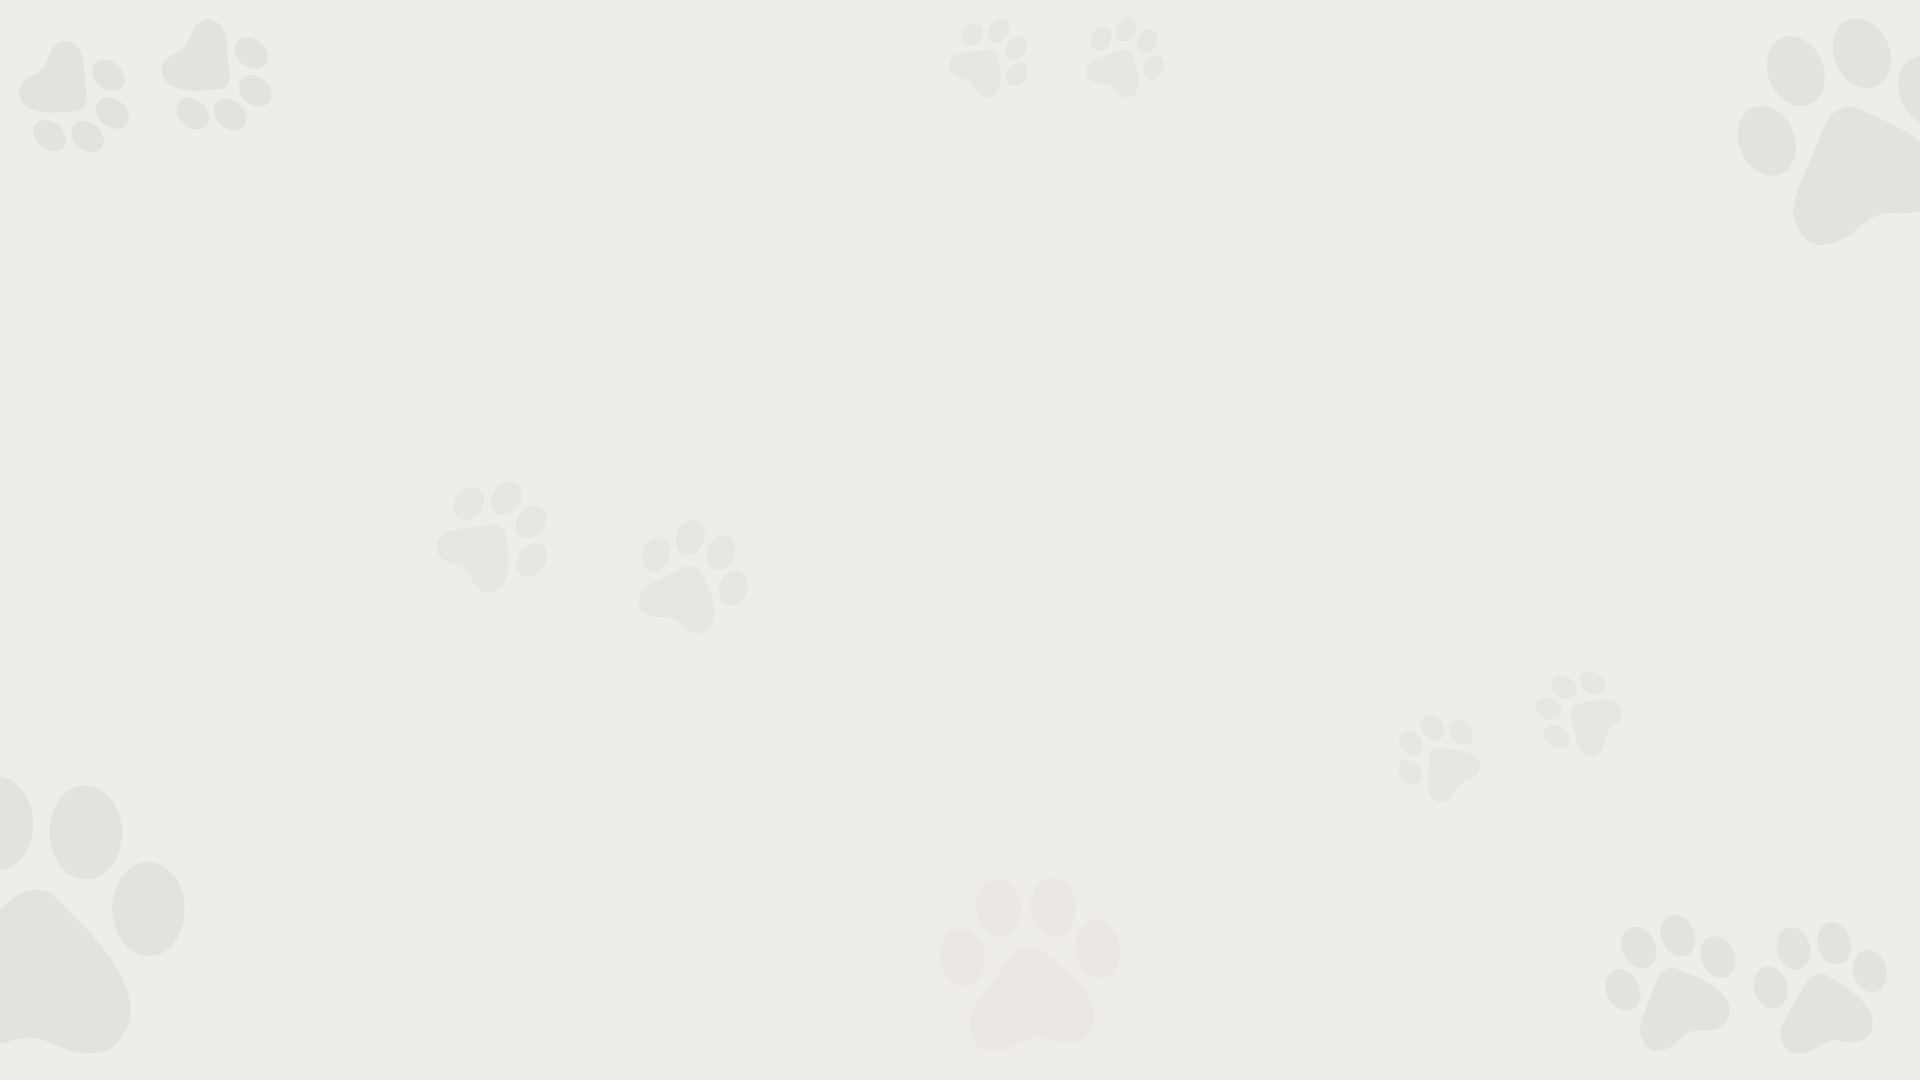
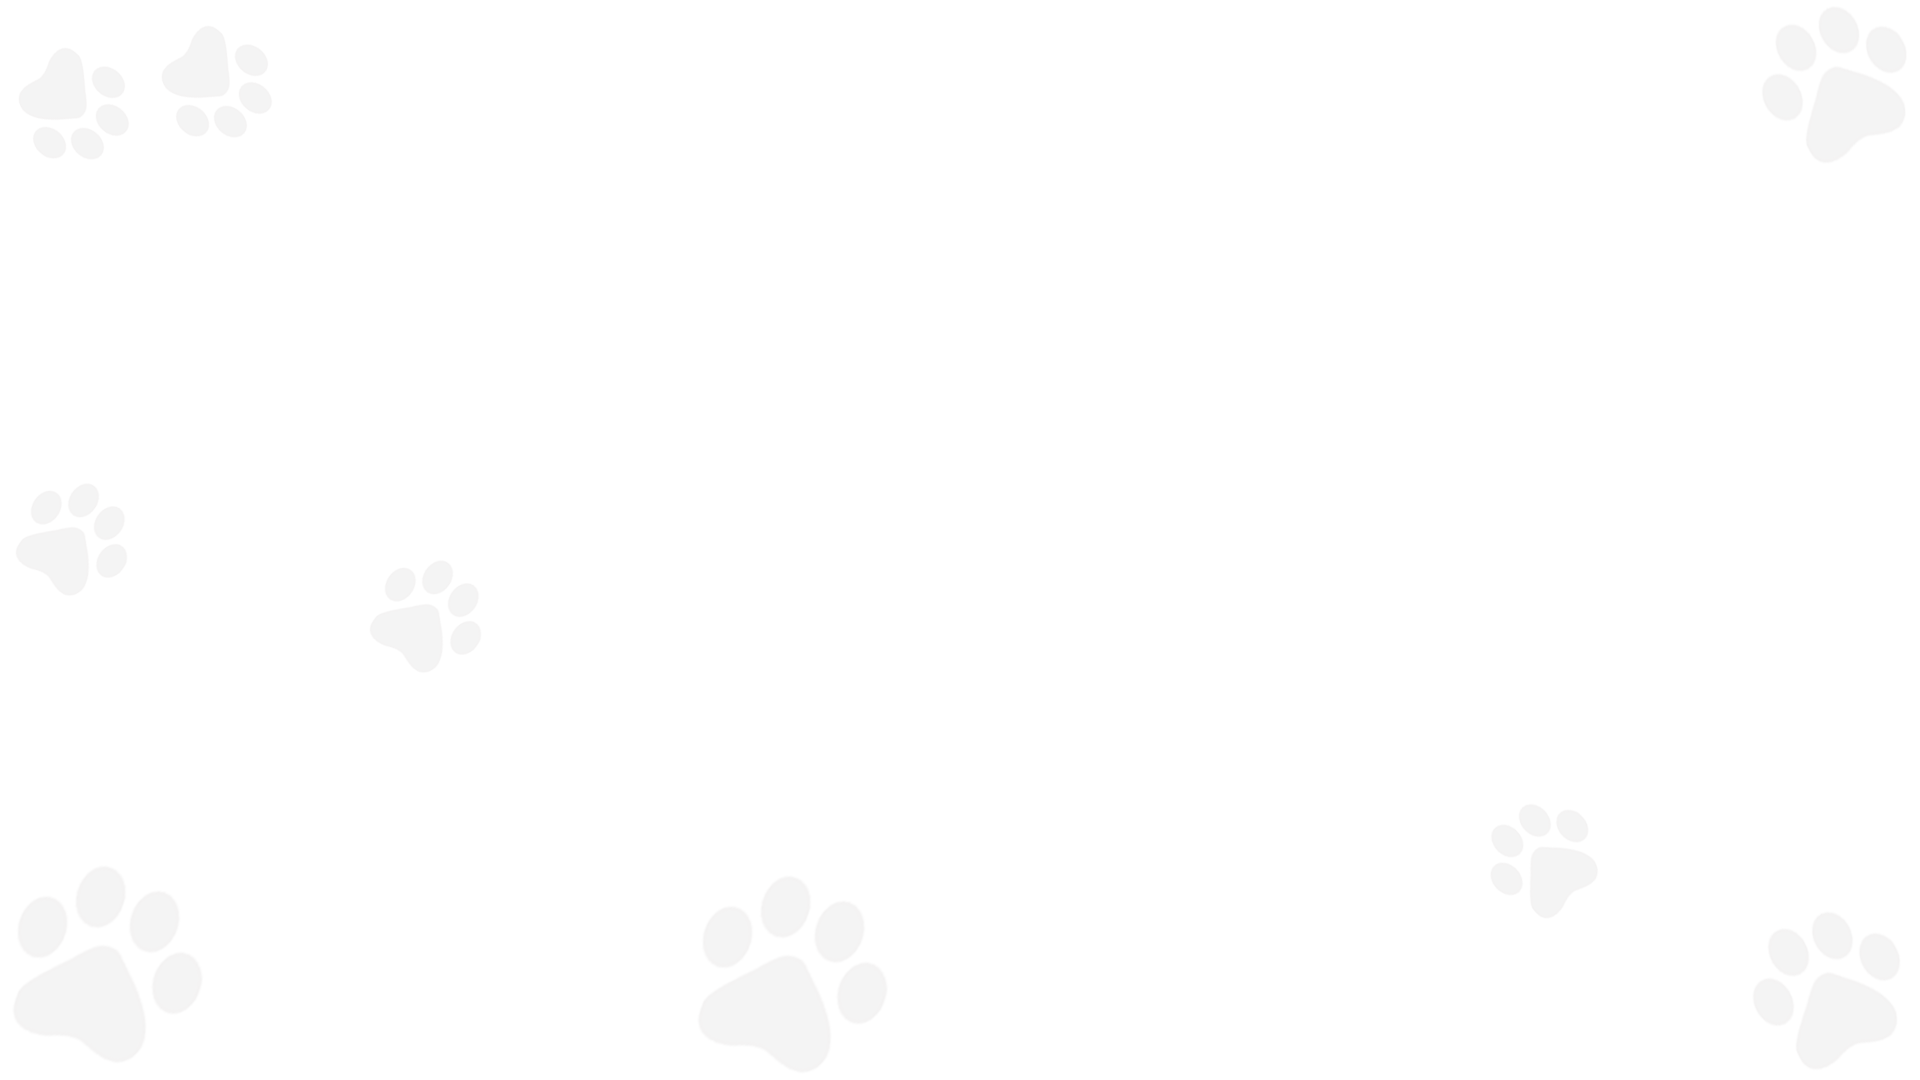
feat(home-page): style

diff --git a/src/sections/presentation-asso/presentation-asso.vue b/src/sections/presentation-asso/presentation-asso.vue
@@ -9,17 +9,24 @@
         abandonnés. L'objectif étant de recueillir, identifier, stériliser et
         placer les chats abandonnés.
       </p>
+    </div>
+    <SectionBkgImg class="img-obj-asso">
+      <div class="section-bkg-img img-obj-asso">
+        <div class="section-container">
+          <TitleH1 class="bkg-light">Objectifs de l'association</TitleH1>
+          <p>
+            Les chats sociables sont recueillis par notre association pour être
+            proposés à l’nos-chats (ils sont identifiés, vaccinés, stérilisés ou
+            castrés). Afin de remédier à la prolifération des chats errants qui ne
+            sont pas sociables, nous souhaitons les faire stériliser ou castrer par un
+            vétérinaire, puis les remettre sur site où ils sont nourris et disposent
+            d’un abri que nous confectionnons.
+          </p>
+        </div>
+      </div>
+    </SectionBkgImg>
 
-      <TitleH1 class="bkg-light">Objectifs de l'association</TitleH1>
-      <p>
-        Les chats sociables sont recueillis par notre association pour être
-        proposés à l’nos-chats (ils sont identifiés, vaccinés, stérilisés ou
-        castrés). Afin de remédier à la prolifération des chats errants qui ne
-        sont pas sociables, nous souhaitons les faire stériliser ou castrer par un
-        vétérinaire, puis les remettre sur site où ils sont nourris et disposent
-        d’un abri que nous confectionnons.
-      </p>
-
+    <div class="section-container">
       <TitleH1 class="bkg-light">Familles d'accueil</TitleH1>
       <p>
         Nous sommes à la recherche de familles d'accueil afin de mettre nos petits
@@ -29,23 +36,29 @@
         par un vétérinaire, déparasités interne et externe, identifiés, stérilisés
         et primo vaccinés.
       </p>
-      <p>
-        Ti Chat 29 fournit les croquettes et prend en charge
-        les frais vétérinaires. Actuellement les demandes de prise en charge
-        affluent mais nous manquons cruellement de familles d'accueil. Etre
-        famille d'accueil c'est de l'amour et le bonheur de participer à un
-        sauvetage : n'hésitez pas à en parler autour de vous ! Nous avons besoin
-        de votre aide pour donner une seconde chance à tous ces chats abandonnés.
-      </p>
     </div>
+    <SectionBkgImg class="img-fam-acc">
+      <div class="section-container">
+        <p>
+          Ti Chat 29 fournit les croquettes et prend en charge
+          les frais vétérinaires. Actuellement les demandes de prise en charge
+          affluent mais nous manquons cruellement de familles d'accueil. Etre
+          famille d'accueil c'est de l'amour et le bonheur de participer à un
+          sauvetage : n'hésitez pas à en parler autour de vous ! Nous avons besoin
+          de votre aide pour donner une seconde chance à tous ces chats abandonnés.
+        </p>
+      </div>
+    </SectionBkgImg>
   </section>
 </template>
 
 <script>
 import TitleH1 from "@/components/title/title.vue";
+import SectionBkgImg from "@/components/section-bkg-img/section-bkg-img.vue";
 export default {
   components: {
     TitleH1,
+    SectionBkgImg,
   },
 };
 </script>

diff --git a/src/components/section-bkg-img/section-bkg-img.vue b/src/components/section-bkg-img/section-bkg-img.vue
@@ -1,0 +1,77 @@
+<template >
+  <div class="section-bkg-img">
+    <slot></slot>
+    <div class="separation">
+      <span class="dome"></span>
+      <span class="dot"></span>
+      <hr class="line line1" />
+      <hr class="line line2" />
+      <hr class="line line3" />
+      <hr class="line line4" />
+      <hr class="line line5" />
+    </div>
+  </div>
+</template>
+
+<script>
+export default {};
+</script>
+
+<style lang="scss">
+.section-bkg-img {
+  position: relative;
+  background-repeat: no-repeat;
+  background-size: cover;
+  background-position: center center;
+  box-shadow: inset 0 0 0 1000px rgba(#fff, 0.4);
+  .separation {
+    position: absolute;
+    left: 50%;
+    top: 0;
+    transform: translateX(-50%) translateY(-50%);
+  }
+  .dome {
+    height: $sbkgimg-crop-img-height;
+    width: $sbkgimg-crop-img-width;
+    background-color: $site-bkg-color;
+    border-radius: 50%;
+    display: inline-block;
+  }
+  .dot {
+    position: absolute;
+    display: inline-block;
+    left: 50%;
+    bottom: $sbkgimg-dot-bottom;
+    transform: translateX(-50%) translateY(-50%);
+    height: $sbkgimg-dot-size;
+    width: $sbkgimg-dot-size;
+    background-color: $sbkgimg-dot-color;
+    border-radius: 50%;
+  }
+  .line {
+    position: absolute;
+    left: 50%;
+    transform: translateX(-50%) translateY(-50%);
+    width: $sbkgimg-line-width;
+    height: $sbkgimg-line-height;
+    border: 0;
+    background-color: $sbkgimg-line-color;
+    @for $i from 1 through $sbkgimg-line-nb {
+      &.line#{$i} {
+        bottom: $sbkgimg-line-bottom +
+          $sbkgimg-line-space *
+          $i +
+          $sbkgimg-line-height *
+          $i;
+      }
+    }
+  }
+
+  &.img-obj-asso {
+    background-image: url("./../../assets/img/pageHome/img-obj-asso.jpg");
+  }
+  &.img-fam-acc {
+    background-image: url("./../../assets/img/pageHome/img-fam-acc.jpg");
+  }
+}
+</style>

diff --git a/src/sections/last-actu/last-actu.vue b/src/sections/last-actu/last-actu.vue
@@ -1,20 +1,39 @@
-<template src="./last-actu.html"></template>
+<template >
+  <section class="section">
+    <div class="section-container">
+      <div class="section-container">
+        <TitleH1 class="bkg-light">Nos dernières actualités</TitleH1>
+      </div>
+      <div class="article" v-for="article in listArticles" v-bind:key="article.titre">
+        <h2>{{ article.titre }}</h2>
+        <p>{{ article.date }}</p>
+        <p>{{ article.lieu }}</p>
+        <p>{{ article.description }}</p>
+        <p>{{ article.photo }}</p>
+      </div>
+    </div>
+  </section>
+</template>
 
 <script>
+import TitleH1 from "@/components/title/title.vue";
 import DateHelper from "../../dateHelper.js";
 import { mapGetters } from "vuex";
 
 export default {
+  components: {
+    TitleH1,
+  },
   computed: {
     ...mapGetters("articlesStore", {
-      getListArticles: "getListArticlesInStore"
+      getListArticles: "getListArticlesInStore",
     }),
     listArticles() {
       return DateHelper.getListEventsSortedAntiChrono(this.getListArticles);
-    }
-  }
+    },
+  },
 };
 </script>
 
-<style lang="scss" src="./last-actu.scss">
+<style lang="scss" >
 </style>

diff --git a/src/sections/events/events.vue b/src/sections/events/events.vue
@@ -1,19 +1,38 @@
-<template src="./events.html"></template>
+<template >
+  <section class="section">
+    <div class="section-container">
+      <div class="section-container">
+        <TitleH1 class="bkg-light">Evenements</TitleH1>
+      </div>
+      <div class="event" v-for="event in listEvents" v-bind:key="event.titre">
+        <h2>{{ event.titre }}</h2>
+        <p>{{ event.date }}</p>
+        <p>{{ event.lieu }}</p>
+        <p>{{ event.description }}</p>
+        <p>{{ event.photo }}</p>
+      </div>
+    </div>
+  </section>
+</template>
 
 <script>
+import TitleH1 from "@/components/title/title.vue";
 import DateHelper from "../../dateHelper.js";
 import { mapGetters } from "vuex";
 
 export default {
+  components: {
+    TitleH1,
+  },
   computed: {
     ...mapGetters("eventsStore", {
       getListEvents: "getListEventsInStore",
-      getListEventsToCome: "getListEventsToComeInStore"
+      getListEventsToCome: "getListEventsToComeInStore",
     }),
     listEvents() {
       return DateHelper.getListEventsSortedAntiChrono(this.getListEventsToCome);
-    }
-  }
+    },
+  },
 };
 </script>
 

diff --git a/src/components/menu/menu.scss b/src/components/menu/menu.scss
@@ -41,14 +41,14 @@ $menu-animation-duration: 0.3s !default;
     }
     &.router-link-active {
       &::after {
-        width: 90%;
+        width: 70%;
         transition: $animation-duration-short ease all;
       }
     }
   }
 
   &:hover .menu-item-link::after {
-    width: 70%;
+    width: 80%;
     transition: $animation-duration-short ease all;
   }
 }
@@ -94,10 +94,20 @@ $menu-animation-duration: 0.3s !default;
 
         path {
           fill: $menu-txt-color;
+          transition: fill $animation-duration-short ease;
         }
         &.svg-social {
           circle {
             fill: $menu-social-bkg-color;
+            transition: fill $animation-duration-short ease;
+          }
+        }
+        &:hover {
+          circle {
+            fill: $footer-social-color;
+          }
+          path {
+            fill: $footer-social-bkg-color;
           }
         }
       }

diff --git a/src/App.scss b/src/App.scss
@@ -33,6 +33,7 @@ body {
   line-height: 1.5;
   letter-spacing: 0.05em;
   color: $c-text-dark;
+  background-color: $site-bkg-color;
 }
 ul {
   list-style-type: none;
@@ -105,9 +106,8 @@ button,
 
 .section {
   background-image: url('./assets/img/backgroundTichat29.png');
-  background-repeat: no-repeat;
-  background-size: cover;
-  background-position: center center;
+  background-repeat: round;
+  background-size: contain;
   .section-container {
     margin: 0;
     width: $section-resp-width;

diff --git a/src/scss/variables/_v-section-bkg-img.scss b/src/scss/variables/_v-section-bkg-img.scss
@@ -1,0 +1,14 @@
+/*******************************
+** Section bkg img
+********************************/
+$sbkgimg-crop-img-height: 140px;
+$sbkgimg-crop-img-width: 200px;
+$sbkgimg-dot-size: 20px;
+$sbkgimg-dot-bottom: 20px;
+$sbkgimg-dot-color: $c-third;
+$sbkgimg-line-nb: 5;
+$sbkgimg-line-height: 8px;
+$sbkgimg-line-width: 2px;
+$sbkgimg-line-color: $c-primary-dark;
+$sbkgimg-line-bottom: $sbkgimg-dot-bottom + $sbkgimg-dot-size;
+$sbkgimg-line-space: 5px;

diff --git a/src/sections/help/help.vue b/src/sections/help/help.vue
@@ -1,7 +1,18 @@
-<template src="./help.html"></template>
+<template >
+  <section class="section">
+    <div class="section-container">
+      <TitleH1 class="bkg-light">Nous aider</TitleH1>
+    </div>
+  </section>
+</template>
 
 <script>
-export default {};
+import TitleH1 from "@/components/title/title.vue";
+export default {
+  components: {
+    TitleH1,
+  },
+};
 </script>
 
-<style lang="scss" src="./help.scss"></style>
+<style lang="scss" ></style>

diff --git a/src/pages/page-home/page-home.scss b/src/pages/page-home/page-home.scss
@@ -5,7 +5,7 @@ $page_home_title_txt_color: $c-secundary-light;
 $page_home_button_paw_size: 55px;
 /**------------------------------------------ Page Home -------------------------------------------------**/
 .section__home {
-  background-image: url('./../../assets/img/titles/homePic.jpg');
+  background-image: url('./../../assets/img/pageHome/homePic.jpg');
   background-repeat: no-repeat;
   background-size: cover;
   background-position: center center;

diff --git a/src/scss/variables/_v-globals.scss b/src/scss/variables/_v-globals.scss
@@ -4,7 +4,7 @@
 $section-width: 70%;
 $section-resp-width: 100%;
 
-$section-padding-tb: 50px;
+$section-padding-tb: 100px;
 $section-padding-lr: 10px;
 $section-container-padding-tb: 10px;
 $section-container-padding-lr: 10px;
@@ -17,4 +17,5 @@ $drop-shadow: drop-shadow(2px 2px 3px rgba(0, 0, 0, 0.3));
 
 $svg-media-size: 40px;
 
+$site-bkg-color: $c-primary-light;
 $component-title-txt-color: $c-secundary-light;

diff --git a/src/scss/variables/_v-footer.scss b/src/scss/variables/_v-footer.scss
@@ -11,6 +11,7 @@ $footer-social-size: 20px;
 $footer-social-margin-r: 30px;
 $footer-social-color: $c-primary-dark;
 $footer-social-bkg-color: $c-primary-light;
-$footer-copyright-span-width: 70%;
+$footer-copyright-span-width: 20%;
 $footer-copyright-span-height: 2px;
 $footer-copyright-span-top: 20px;
+$footer-copyright-font-size: rem(12);

diff --git a/src/components/title/title.vue b/src/components/title/title.vue
@@ -12,7 +12,7 @@ export default {};
 
 <style lang="scss">
 .title-h1 {
-  padding: $titles-padding-tb 0;
+  padding: 0 0 $titles-padding-tb 0;
   h1 {
     position: relative;
     display: inline-block;
